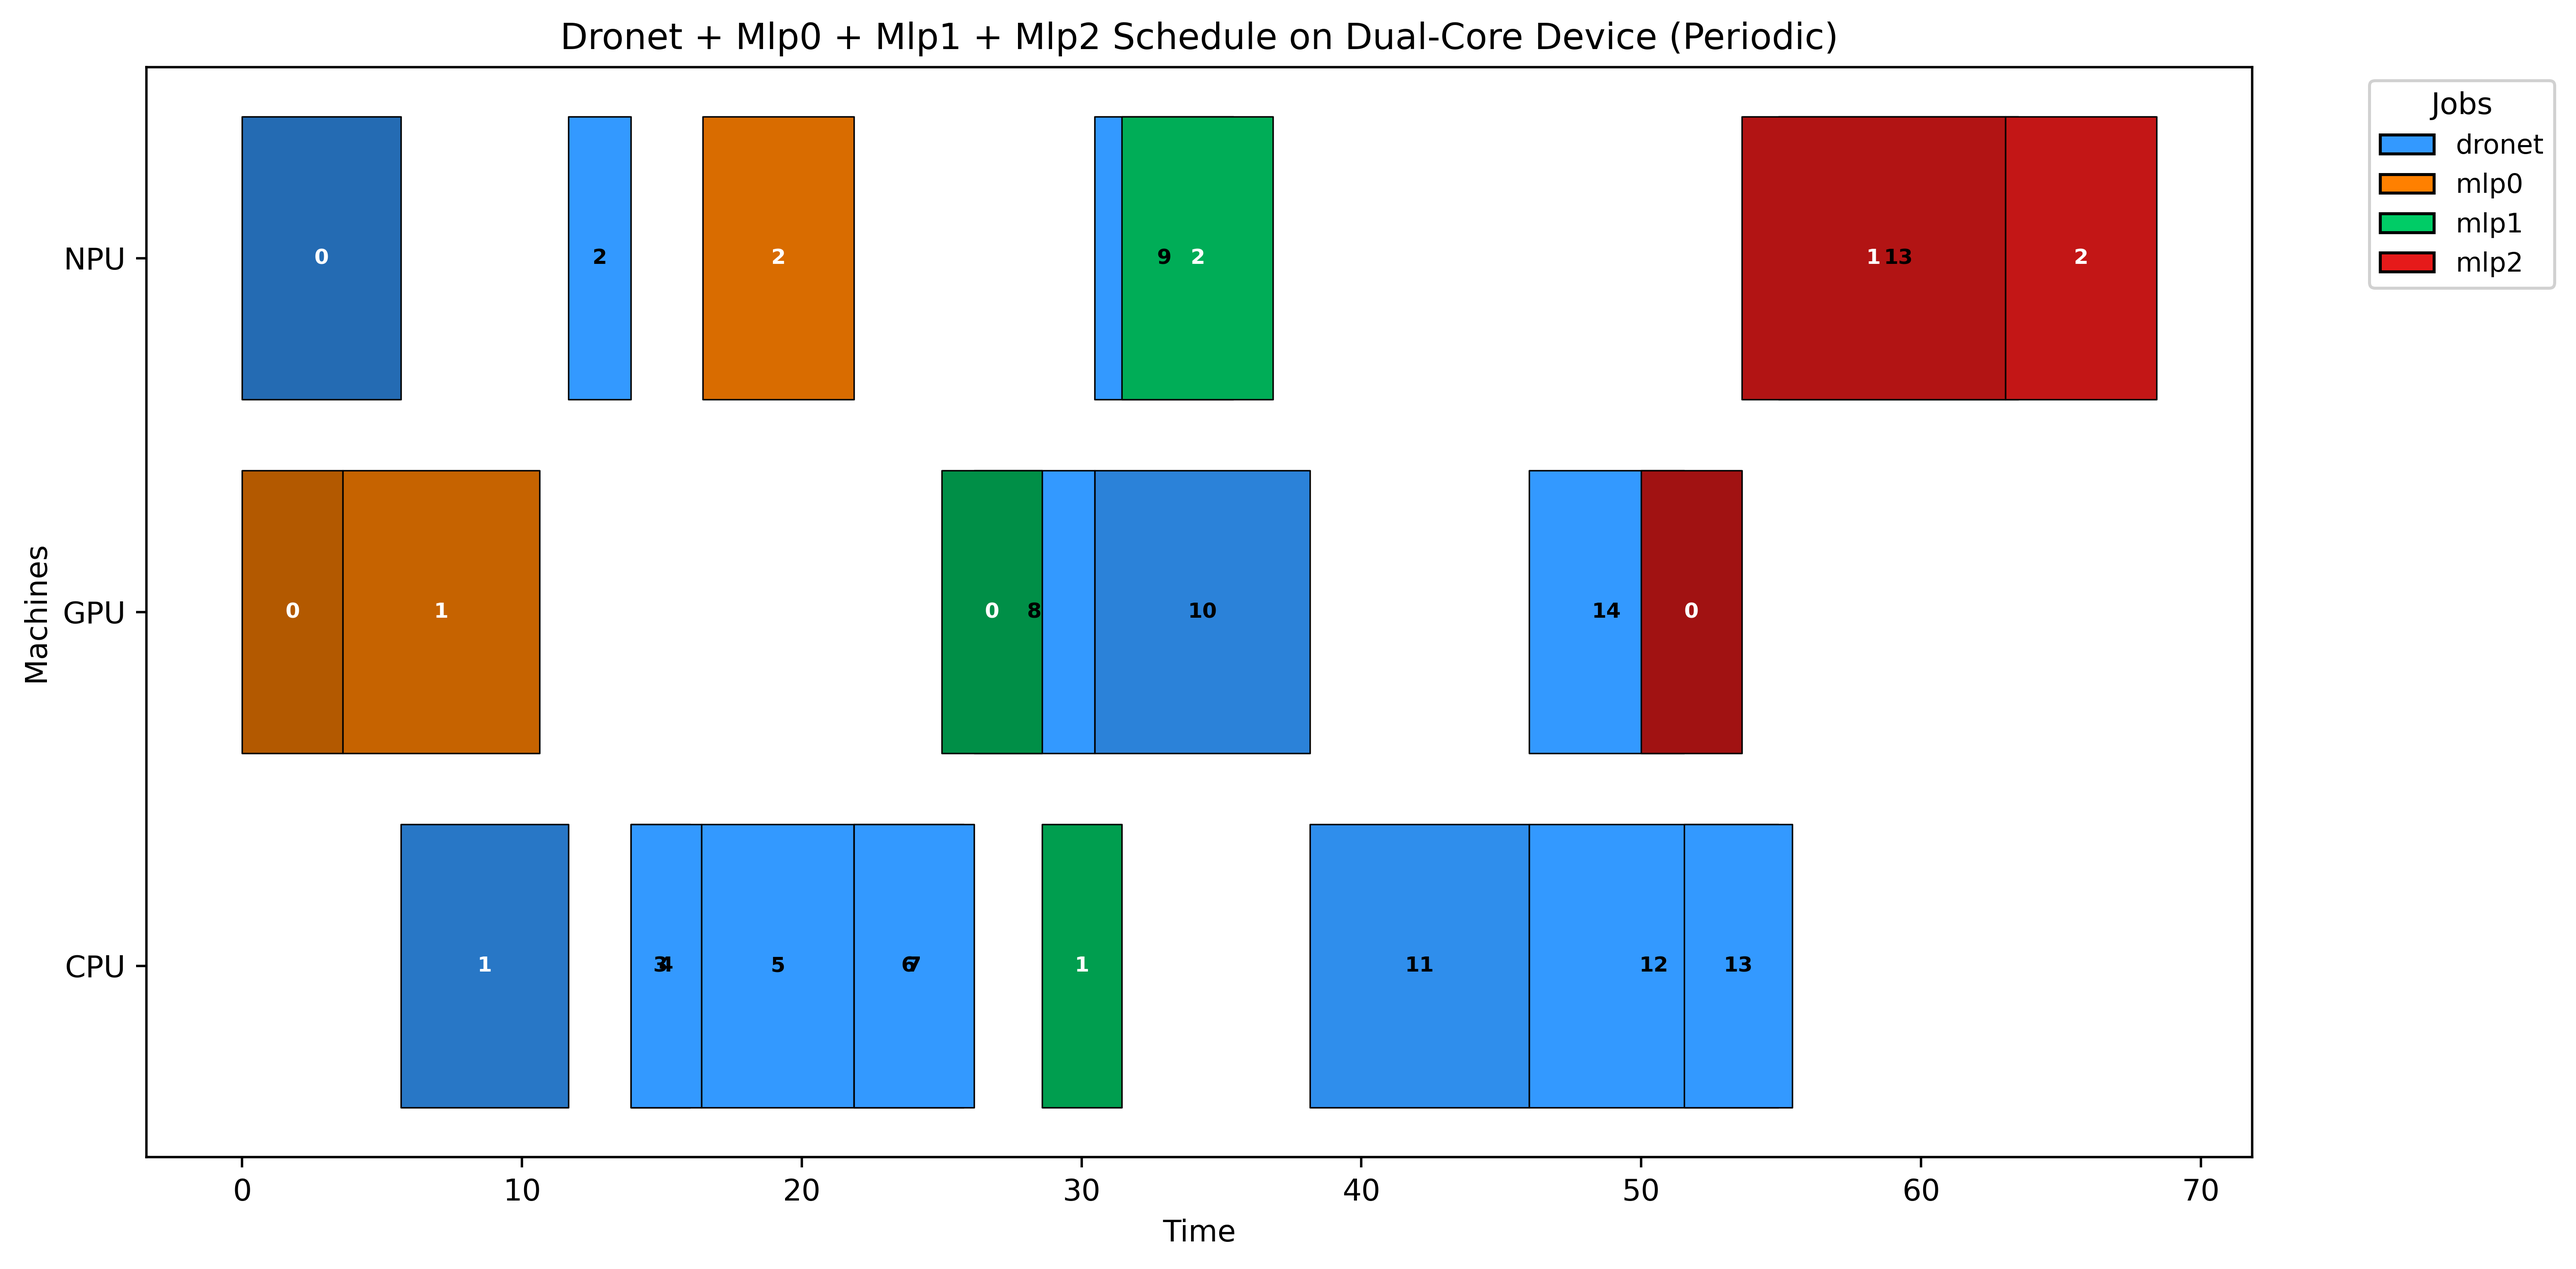
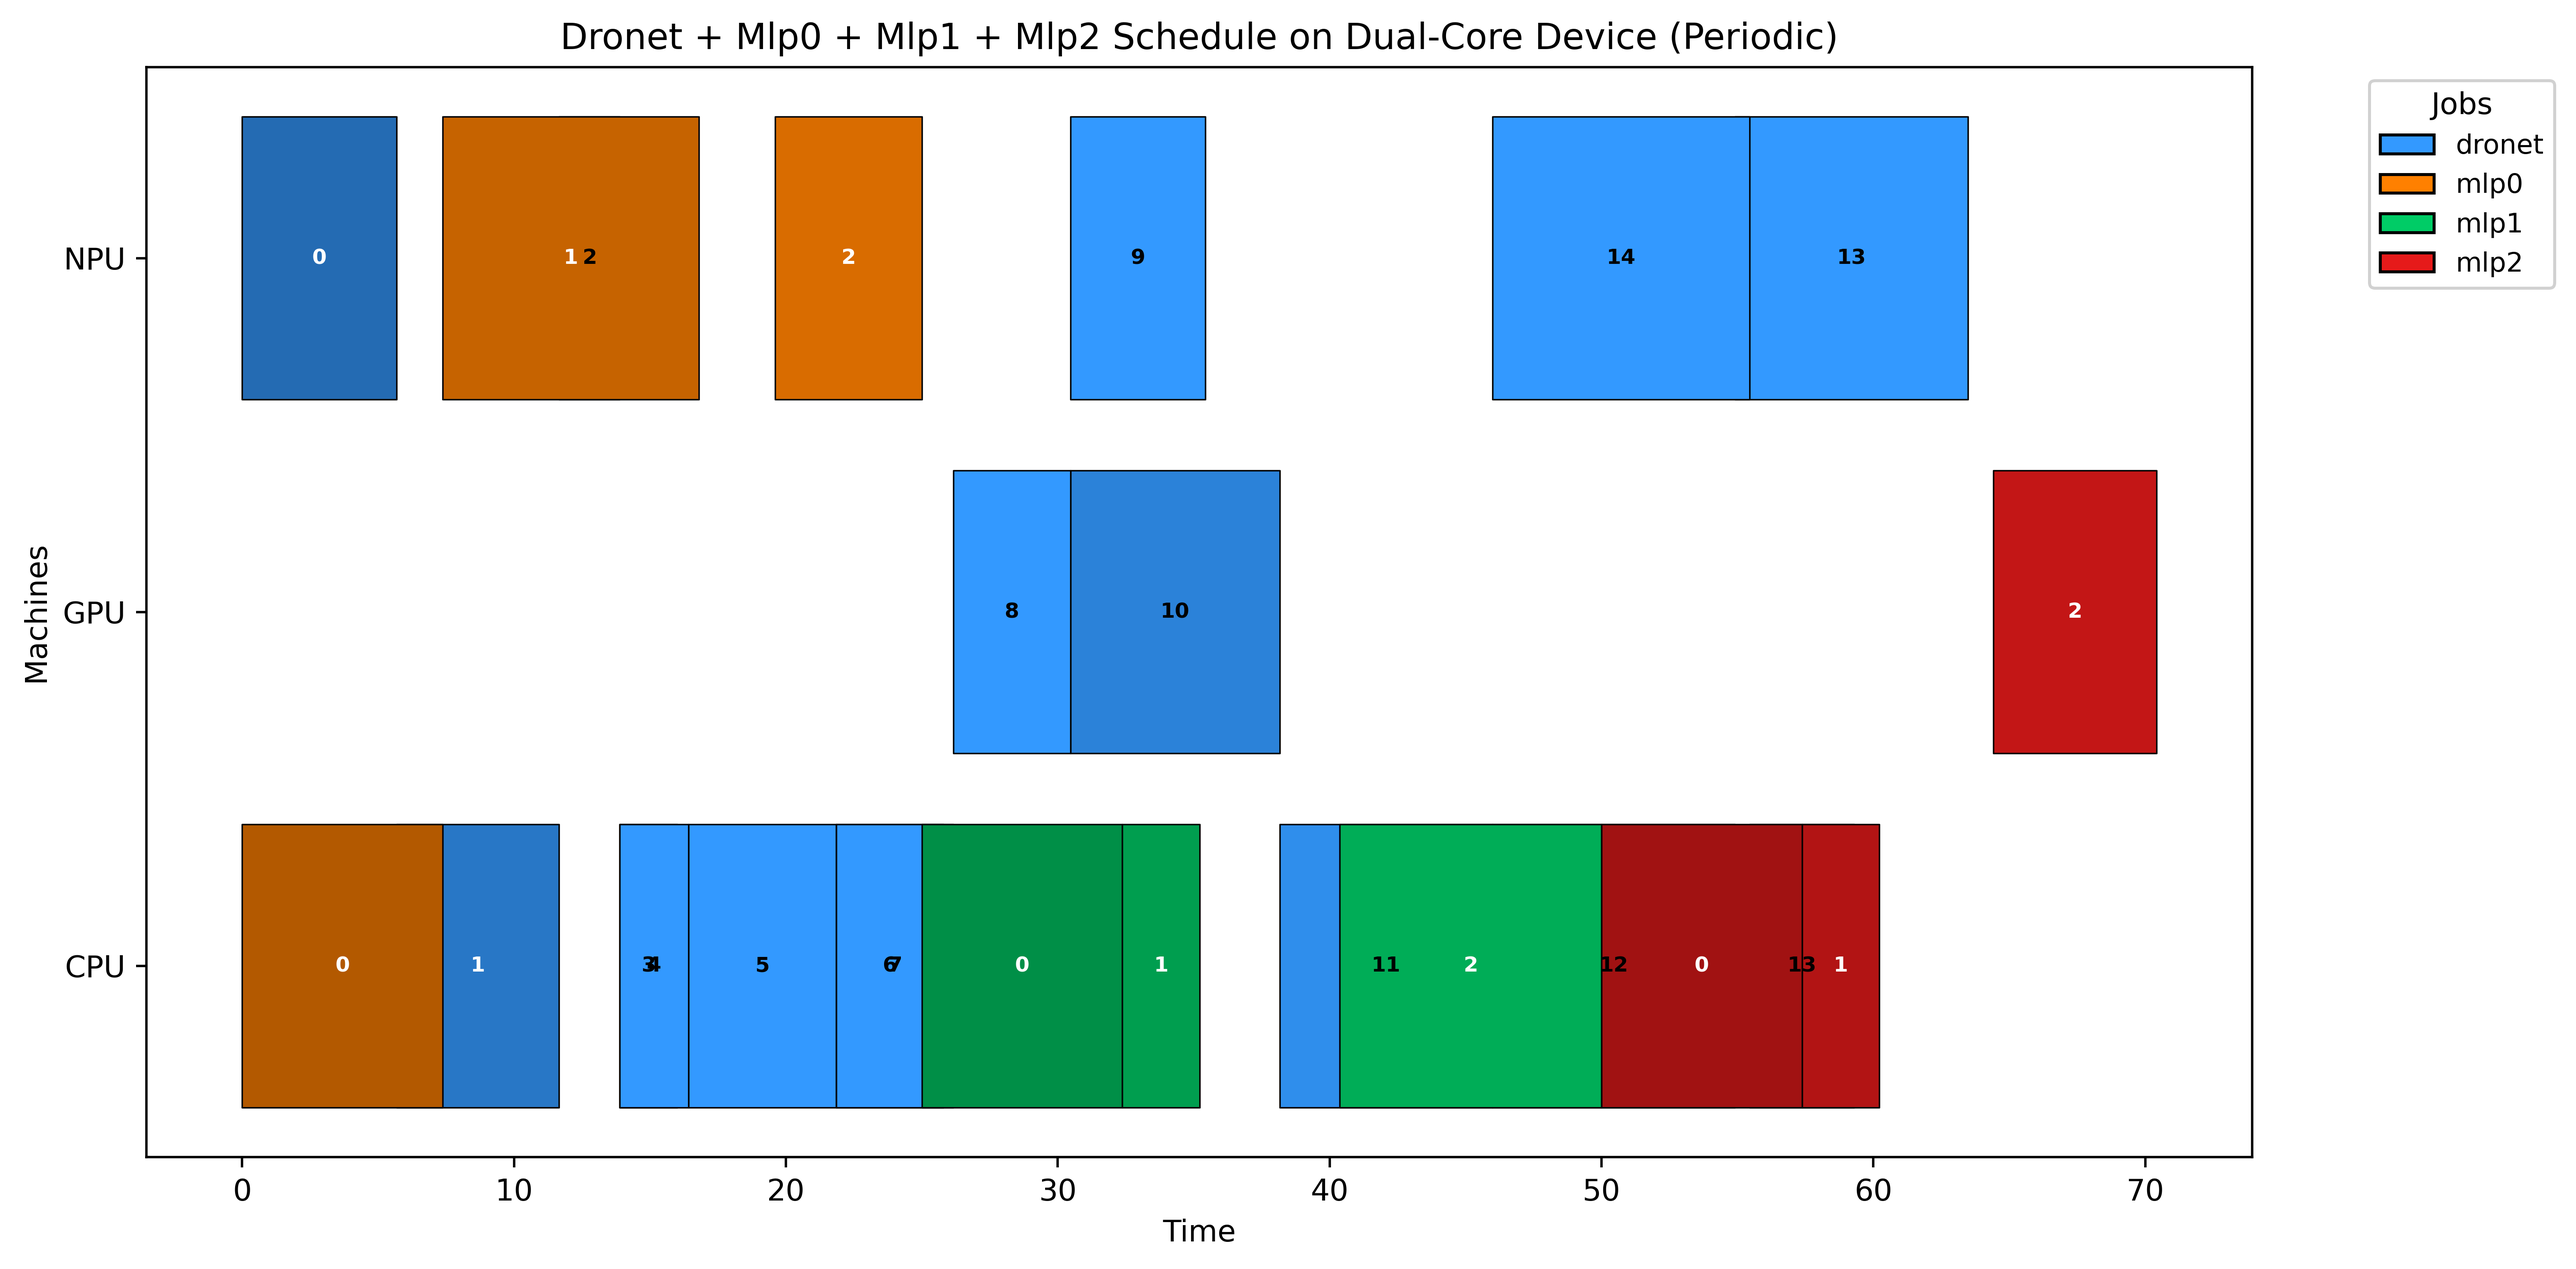
committing first versions

diff --git a/src/scheduler.py b/src/scheduler.py
@@ -289,38 +289,54 @@ def schedule(
     # tasks that can be placed between these combinations - this limit is defined by the minimum number of cores 
     # for each intersecting machine
     overlap_track = {}
-    for k1 in range(num_combinations):
-        for k2 in range(num_combinations):
-            overlap_track[(k1,k2)] = {}
-            overlap = workload.combinations_overlap(k1, k2)
-            if overlap:
-                max_overlap = min(workload.machines[m] for m in overlap)
-                pairs = [ (i,j) for j in range(i+1, num_operations) for i in range (num_operations)]
-                for i in range(num_operations):
+    before = {}
+    after = {}
+    z = {}
+    list_overflow = [0 for i in range(num_operations * num_combinations * num_combinations)]
+
+    for k_1 in range (num_combinations):
+        for k_2 in range (num_combinations):
+            overlap_track[(k_1,k_2)] = {}
+            before[(k_1,k_2)] = {}
+            after[(k_1,k_2)] = {}
+            z[(k_1,k_2)] = {}
+
+    for i in range(num_operations):
+        for k_1 in range (num_combinations):
+            for k_2 in range (num_combinations):
+                overlaps_for_i = []
+                list_overflow[i * num_combinations^2 + k_1 * num_combinations + k_2] = cp.Variable()
+                overlapping_machines = workload.combinations_overlap(k_1,k_2)
+                if (overlapping_machines):
                     for j in range(i+1, num_operations):
-                        dur_j_k2 = workload.operations[j].get_duration_for_combination(
-                                    k2, machine_combinations, workload.machines
+                        z[(k_1,k_2)][(i,j)] = cp.Variable(boolean=True)
+                        overlap_track[(k_1,k_2)][(i,j)] = cp.Variable(boolean=True)
+                        before[(k_1,k_2)][(i,j)]  = cp.Variable(boolean=True)
+                        after[(k_1,k_2)][(i,j)] = cp.Variable(boolean=True)
+                        
+                        dur_j_k1 = workload.operations[i].get_duration_for_combination(k_1, machine_combinations, workload.machines) 
+                        dur_i_k2 = workload.operations[j].get_duration_for_combination(k_2, machine_combinations, workload.machines) 
+
+                        # If before = 1 → i finishes before j starts
+                        constraints.append(
+                            t[i] + dur_i_k2 <= t[j] + H*(1 - before[(k_1,k_2)][(i,j)])
                         )
-                        dur_i_k2 = workload.operations[i].get_duration_for_combination(
-                                    k2, machine_combinations, workload.machines
+                        # If after = 1 → j finishes before i starts
+                        constraints.append(
+                            t[j] + dur_j_k1 <= t[i] + H*(1 - after[(k_1,k_2)][(i,j)])
                         )
-                        i_before = cp.Variable(boolean=True)  # i finishes before j
-                        i_after  = cp.Variable(boolean=True)  # j finishes before i
-
-                        constraints.append( t[i] + dur_i_k2 <= t[j] + H*(1 - i_before))
-                        constraints.append( t[j] + dur_j_k2 <= t[i] + H*(1 - i_after))
-                        constraints.append( i_before + i_after <= 1)
-
-                        # Overlap indicator var per combination pair per operation
-                        overlap_track[(k1,k2)][(i,j)] = cp.Variable(boolean=True)
-
-                        # Overlap = 1 if intervals overlap AND both operations are assigned to the corresponding combinations
-                        constraints.append( overlap_track[(k1,k2)][(i,j)] >= 1 - i_before - i_after + alpha[i][k1] + alpha[j][k2] - 2 )
-                        constraints.append( overlap_track[(k1,k2)][(i,j)] <= alpha[i][k1] )
-                        constraints.append( overlap_track[(k1,k2)][(i,j)] <= alpha[j][k2] )
-                        constraints.append( overlap_track[(k1,k2)][(i,j)] <= 1 - i_before )
-                        constraints.append( overlap_track[(k1,k2)][(i,j)] <= 1 - i_after )
-                constraints.append(cp.sum([overlap_track[(k1,k2)][(i,j)] for i,j in pairs]) <= max_overlap )
+                        constraints.append(z[(k_1,k_2)][(i,j)] <= alpha[i][k_1])
+                        constraints.append(z[(k_1,k_2)][(i,j)] <= alpha[j][k_2])
+                        constraints.append(z[(k_1,k_2)][(i,j)] >= alpha[i][k_1] + alpha[j][k_2] - 1)
+                        
+                        # Exactly one relationship holds
+                        constraints.append(
+                            before[(k_1,k_2)][(i,j)] +  after[(k_1,k_2)][(i,j)] +  overlap_track[(k_1,k_2)][(i,j)] == z[(k_1,k_2)][(i,j)]
+                        )
+                        y = overlap_track[(k_1,k_2)][(i,j)]
+                        overlaps_for_i.append(y)
+                    capacity_expr = min([workload.machines[i] for i in overlapping_machines]) - 1
+                constraints.append(cp.sum(overlaps_for_i) <= capacity_expr + list_overflow[i * num_combinations^2 + k_1 * num_combinations + k_2])
 
     # (6) Makespan constraints:
     if restrict_makespan_to_nonperiodic:
@@ -352,7 +368,7 @@ def schedule(
                 for k in range(num_combinations)
             ]
             constraints.append(
-                C_max >= t[i] + cp.sum(cp.multiply(dur_vec, alpha[i, :]))
+                C_max >= t[i] + cp.sum(cp.multiply(dur_vec, alpha[i, :])) + cp.sum(list_overflow) * H
             )
     
     # Debug: Print durations for first operation to verify they're correct
@@ -418,6 +434,12 @@ def schedule(
 
     print("Status: ", problem.status)
     print("Optimal value: ", problem.value)
+
+    print(len(list_overflow))
+
+    #Print out the number of Overlaps over:
+    for elem in list_overflow:
+        print(f"OVERFLOW ON TASK: {elem.value}\n")
 
     t_result = t.value
     alpha_result = alpha.value
@@ -551,7 +573,7 @@ def schedule_additional_objectives(workload: Workload, nominal_start_times: list
         # Build duration vector for all combinations
         dur_vec = [workload.operations[i].get_duration_for_combination(k, machine_combinations, workload.machines) for k in range(num_combinations)]
         constraints.append(
-            C_max >= t[i] + cp.sum(cp.multiply(dur_vec, alpha[i, :]))
+            C_max >= t[i] + cp.sum(cp.multiply(dur_vec, alpha[i, :])) + cp.sum(list_overflow) * 5000
         )
     # (7) and (8) are covered by boolean argument of alpha and beta variables
     # all operations start at 0
